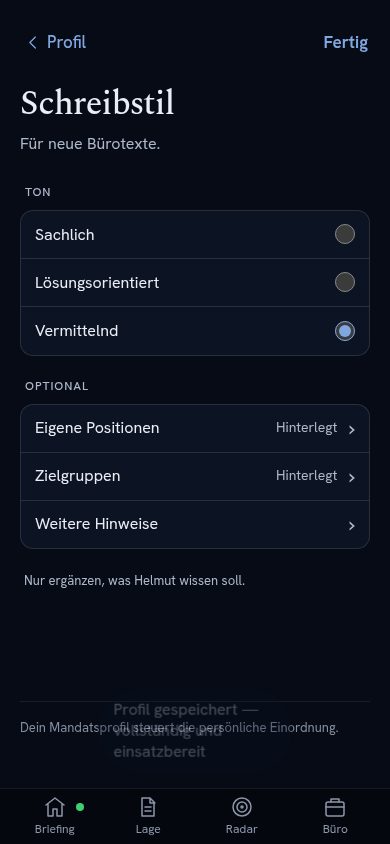
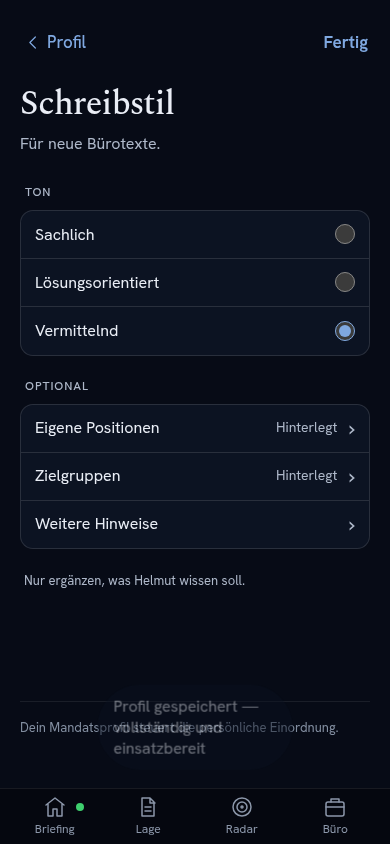
test: align onboarding and office fixtures with integrated profile UI

Changed region(s): [[0.2769, 0.8318, 0.6154, 0.8934]]

diff --git a/scripts/profil-kompakt-browser.js b/scripts/profil-kompakt-browser.js
@@ -28,6 +28,17 @@ async function verify({ browser, baseUrl, storage, fixture, check }) {
       try {
         await page.goto(baseUrl, { waitUntil:"domcontentloaded" });
         await page.waitForFunction(() => window.__helmutClientLoaded && !document.body.classList.contains("is-loading"));
+        await page.evaluate(() => {
+          onboardingActive=true; onboardingStep=1;
+          onboardingDraft={party:profile.party,faction:profile.faction}; render();
+        });
+        await page.locator('.onboarding-layer select[name="party"]').selectOption("SPD");
+        await page.locator('.onboarding-layer select[name="faction"]').selectOption("SPD");
+        const onboardingSelection = await page.evaluate(() => {
+          captureOnboardingStep(); const values={...onboardingDraft};
+          onboardingActive=false; onboardingDraft=null; render(); return values;
+        });
+        check(`${label}: Onboarding übernimmt Partei und Fraktion aus nativen Auswahlen`, onboardingSelection.party === "SPD" && onboardingSelection.faction === "SPD");
         async function open(view) {
           await page.locator('[data-view="settings"]:visible').first().click();
           await page.locator(`[data-view="${view}"]:visible`).click();

diff --git a/scripts/admin-nutzer-anlegen-schnellstart-test.js b/scripts/admin-nutzer-anlegen-schnellstart-test.js
@@ -127,7 +127,7 @@ async function login(port, email, password) {
   check("Handler baut weiterhin fullName aus firstName+lastName", /fd\.get\("firstName"\)/.test(handlerSrc) && /fd\.get\("lastName"\)/.test(handlerSrc));
 
   console.log("== Bestehende Profilfelder bleiben an ihren eigentlichen Stellen ==");
-  check("Onboarding-Formular hat weiterhin Partei", /<label>Partei<input name="party"/.test(clientSrc));
+  check("Onboarding-Formular hat Partei als native Auswahl", /profileChoiceSelect\("party",\s*"Partei",\s*d\.party,\s*profilePartyOptions\)/.test(clientSrc));
   check("Onboarding-Formular hat weiterhin Ausschuss", /name="committee" type="text" list="onboardingCommittees"/.test(clientSrc));
   check("Onboarding-Formular hat weiterhin Wahlkreis", /<label>Wahlkreis<input name="constituency"/.test(clientSrc));
   check("Onboarding-Formular hat weiterhin Bundesland", /<label>Bundesland<input name="state"/.test(clientSrc));

diff --git a/scripts/office-antwortzeit-ui-test.js b/scripts/office-antwortzeit-ui-test.js
@@ -18,7 +18,7 @@ const functions = ["privateAccessContext", "privateAccessIsCurrent", "privateAcc
   "isPrivateApi", "assertPrivateMutationAllowed", "bindPrivateResponseBody", "guardPrivateResponse",
   "fetchWithTimeout", "prepareRequestOptions", "needsCsrfToken", "getCsrfToken",
   "decisionEntityId", "isValidDraft", "generateStatementWithBackend", "officeDraftCacheKey",
-  "officeDraftKey", "officeDraftBinding", "officeDraftEntry", "loadOfficeDraftCache",
+  "officeDraftKey", "officeDraftProfileContext", "officeDraftBinding", "officeDraftEntry", "loadOfficeDraftCache",
   "uiOfficeSelection", "draftProvenanceLabel", "officeCardStatus", "officeDraftFailure", "renderOfficeDraftDetail",
   "officeCreationReady", "generateSelectedOfficeDraft", "shareOfficeDraft"];
 const currentCode = functions.map(clientFunction).join("\n");

diff --git a/docs/ui/profil-kompakt-20261111/README.md b/docs/ui/profil-kompakt-20261111/README.md
@@ -3,7 +3,7 @@
 ## Stand
 
 Lokal umgesetzt und gezielt geprüft; Pflicht-CI und Production-Rollout stehen vor
-Integration noch aus. Basis `7898fd5d`, Branch `codex/profil-kompakt-20261111`.
+Integration noch aus. Basis `7898fd5d`, neuer Bürostand `626c4f29` integriert, Branch `codex/profil-kompakt-20261111`.
 Der Auftrag umfasst ausdrücklich Oberfläche **und** tatsächlich angeschlossene Wirkung.
 Die früheren Befunde bleiben im [Profilaudit](../profil-wirkungscheck-20261111/README.md).
 
@@ -106,7 +106,7 @@ Wahlkreis wird nicht behauptet; ein Wohn-/Büroort muss auch nicht im Wahlkreis 
 Alle Läufe über `scripts/lokal.js`, synthetische Profile, keine Production-Datenmutation,
 keine Migration, keine Secrets-/Cron-/Budgetänderung und keine bezahlten Modellaufrufe.
 
-- Echte lokale mobile/Desktop-Chromiumprobe 58 Prüfungen: native Auswahl, Teil-PATCHs,
+- Echte lokale mobile/Desktop-Chromiumprobe 60 Prüfungen: native Auswahl, Teil-PATCHs,
   Mehrfachausschüsse/Leeren, Regionenwechsel, Themenspeichern/Hinzufügen/Entfernen,
   verwaiste Gewichte, Modellprofil, optionale Angaben, Verlustschutz, 503 mit Wiederholung,
   gesperrte Eingaben während verzögerter Antwort, vertauschte Folgeantworten,
@@ -121,7 +121,7 @@ keine Migration, keine Secrets-/Cron-/Budgetänderung und keine bezahlten Modell
 
 Review von `74e8f093` fand drei Integrationsfehler: aktive Eingaben beim Save,
 vertauschbare Folgeantworten und die UI-Aktivierung verwaister Gewichte. Alle drei
-wurden anschließend korrigiert und durch die 58 Browserprüfungen reproduzierbar abgesichert.
+wurden anschließend korrigiert und durch die 60 Browserprüfungen reproduzierbar abgesichert.
 Die beiden Fachteilaufträge nutzten eigene Worktrees und Commits, unveränderte geerbte
 Modell-/Denkstufeneinstellung; Root integriert. Keine gleichzeitig veränderten Prüfeingaben.
 
@@ -132,7 +132,18 @@ namentlich ergänzt; zusätzlich sichern zwei neue Prüfungen ab, dass er keine
 Abhängigkeiten oder I/O-/Umgebungs-/dynamischen Ausführungspfade besitzt. Die
 bestehenden HTTP-/Tabellen-/RPC-/Storage-Schreibsperren bleiben erhalten.
 Gezielter korrigierter Schreibschutznachweis:56/56bestanden. Keine Runtimeänderung
-nach den58Browserprüfungen; neuer Pflichtkopf erforderlich, kein Umdeuten des Fehlers.
+nach den58Browserprüfungen auf e747645c; neuer Pflichtkopf erforderlich, kein Umdeuten des Fehlers.
+
+Anschließend bestanden auf `b871a8f4` alle189Standardsuiten; die Fachregression
+bestand365/367Suiten. Die beiden Fehler lagen in alten Testaufbauten: ein wörtlicher
+Partei-Input-Quelltextcheck trotz nativem Select und ein VM-Auszug ohne neuen
+`officeDraftProfileContext`-Helfer. Beide wurden korrigiert. Die Parteiauswahl im
+Onboarding wird zusätzlich im echten Browser ausgeführt und übernommen.
+Der parallel veröffentlichte Bürostand `626c4f29` wurde sauber integriert und separat
+lesend auf Pool-/Privat-/Cacheverträglichkeit geprüft. Gemeinsamer lokaler Browserlauf:
+174/174plus17/17Adminchecks, darin60Profilprüfungen; Einladung34/34 und
+Büro-Antwortzeit13/13mit echtem Clientcode und virtueller Zeit. Erneute Pflicht-CI
+am integrierten Kopf bleibt erforderlich. Keine Test-/Schutzabschwächung.
 
 ## Integration und Rückweg
 

diff --git a/docs/CURRENT_STATE.md b/docs/CURRENT_STATE.md
@@ -18,9 +18,9 @@
 
 [PR1129](https://github.com/ernisch/helmut-pilot/pull/1129) auf `ca9a3fc6` live/READY; Buero wartet60s statt12s, kein Auto-Retry. Pflicht-CI43001755133 gruen:14/14 Schnellkern,135/135 Bereich und Browser/Mobil. Nach Nutzer-„Ja“ genau1echte Probe11:40UTC: HTTP200 nach15,023s,844Zeichen,kein Fallback,1bestaetigte Buchung0,002823USD. Die alte12s-Frist haette diese erfolgreiche Antwort verworfen. Unveraenderter Client zeigt die Originalantwort im isolierten Desktop-/Mobilreplay nach13s bytegleich,37/37Pruefungen,Cache/Teilenaktion bestaetigt,0externeAnfragen. Native Bilanz11:43UTC:64Buchungen,heute0,029144USD/1USD,gesamt1,214451USD/30USD;Vertrag/Altreserven erhalten. Erfolgreich fuer diese Einzelprobe; normale Kundensitzung/natives Teilen nicht geprueft. [Beleg, Grenzen und Rueckweg](betrieb/buero-kostensperre-20261111.md).
 
-## Kompaktes Profil (11.11.2026, Integration offen)
+## Kompaktes Profil (11.11.2026, Pflicht-CI offen)
 
-[Umsetzung/Prüfungen](ui/profil-kompakt-20261111/README.md): drei Mock-Seiten, echte1/3/5Gewichtung, Teil-Speichern/Mehrfachausschüsse und Bürocache korrigiert. Lokal58Browser-,31Onboarding-,43KI-Feldchecks grün; verzögerte Antworten abgesichert. Keine Productionmutation/KI-Aufrufe. CI188/189: reine Modulliste korrigiert,56/56Schreibschutz grün; Pflichtkopf/Rollout offen. DropdownPR1134 ersetzt. [Vorheriger Audit](ui/profil-wirkungscheck-20261111/README.md). Nächster Schritt: exakte grüne Integration und lesender Rolloutnachweis.
+[Umsetzung/Prüfungen](ui/profil-kompakt-20261111/README.md): drei Mock-Seiten, echte Prioritäten, sichere Teil-PATCHs; unverbundene Felder entfernt. Büro626c4f29 integriert. Lokal174Browser+17Admin, darin60Profilchecks; Einladung34/34, Antwortzeit13/13grün. VorigeCI189/189Standard,365/367Bereich: zwei Testaufbauten korrigiert. Keine Productionmutation/KI. Nächster Schritt: grüner Kopf und lesender Rolloutnachweis. DropdownPR1134 wird ersetzt. [Audit](ui/profil-wirkungscheck-20261111/README.md).
 
 **Historie 07.11.:** Lageauswahl PR1100 auf `d9651861` live/READY, Pflicht-CI42409807375 grün. Fachliche Aufnahme vor Limit, Quellen-/Profilbindung; synthetische Gegenproben und Windenergiefall bestanden. Authentifizierte Production-Bedienabnahme offen. [Vollständige Belege, Grenzen und Rückweg](betrieb/lage-profilbezug-20261107.md); keine neue Daten-/Modellfreigabe.
 
